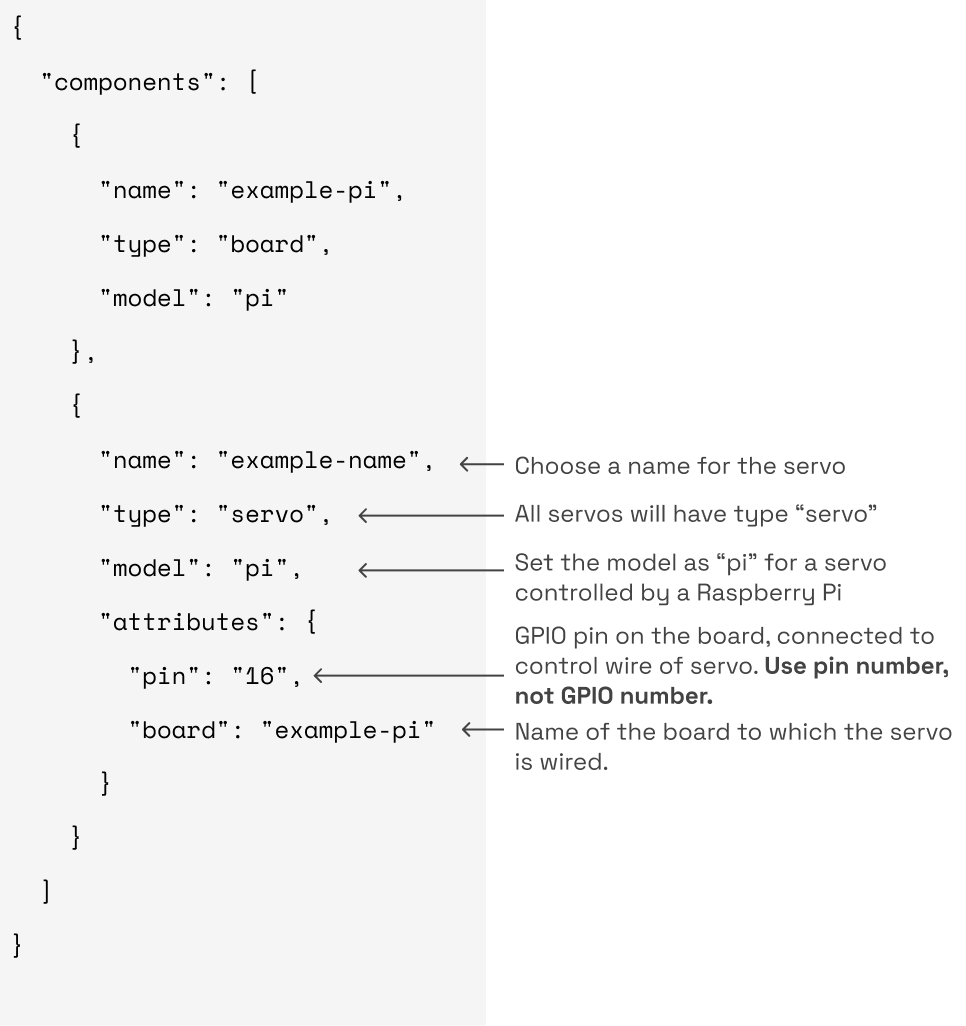
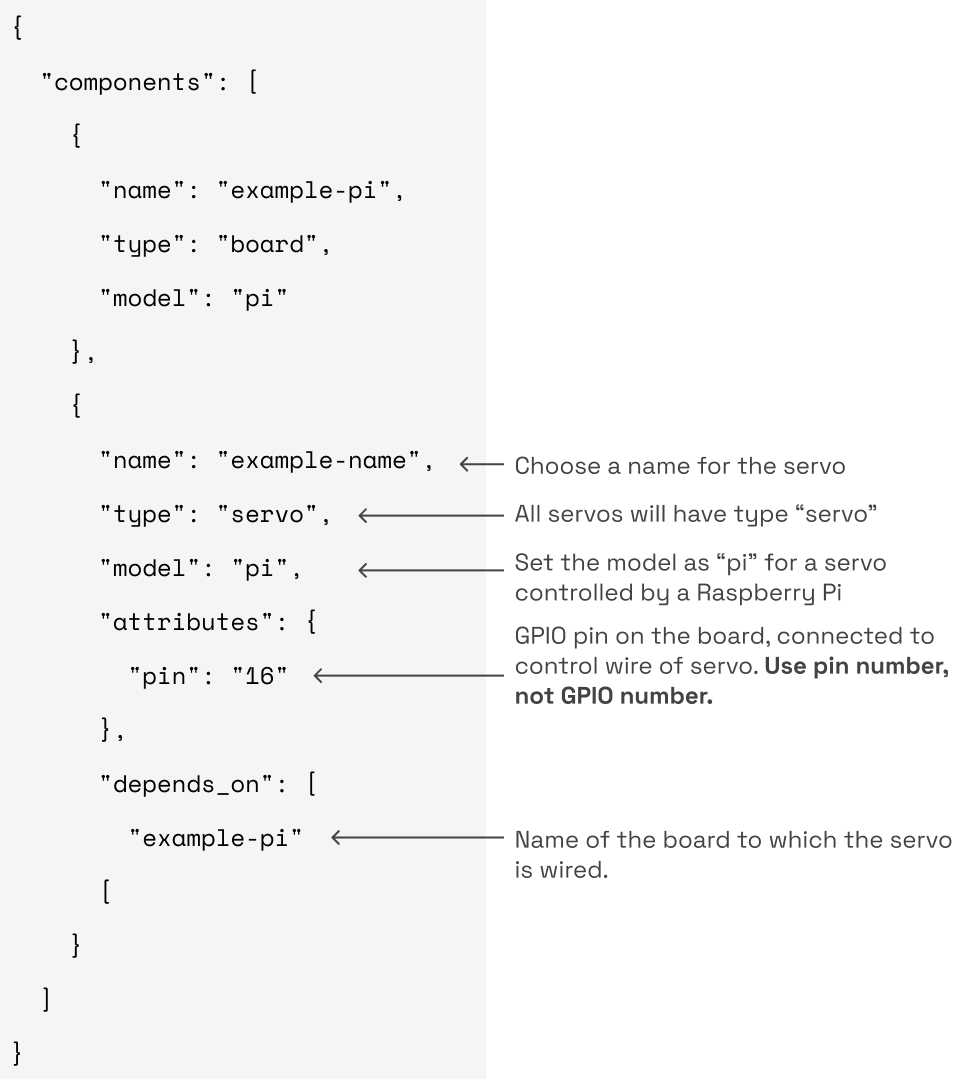
DAD-373, DAD-379: add note about servo power options and fix servo json (#645)

diff --git a/docs/components/servo.md b/docs/components/servo.md
@@ -32,6 +32,14 @@ Here's an example of how a servo might be wired to a Raspberry Pi:
 
 ![A diagram showing the signal wire of a servo connected to pin 16 on a Raspberry Pi. The servo's power wires are connected to a 4.8V power supply.](../img/servo/servo-wiring.png)
 
+{{% alert title="Note" color="note" %}}
+
+Instead of powering the servo with a separate power supply, you may choose to power it using the 5V and ground pins on the board.
+This can work, as long as the servo is not under any significant load.
+Keep in mind that if the servo draws too much power, it can cause the board to temporarily lose power.
+
+{{% /alert %}}
+
 ## Viam Configuration
 
 The following fields are required when configuring a servo:
@@ -79,9 +87,11 @@ The following is an example configuration file showing a board component and a s
       "type": "servo",
       "model": "pi",
       "attributes": {
-        "pin": "16",
-        "board": "example-pi"
-      }
+        "pin": "16"
+      },
+      "depends_on": [
+        "example-pi"
+      ]
     }
   ]
 }
